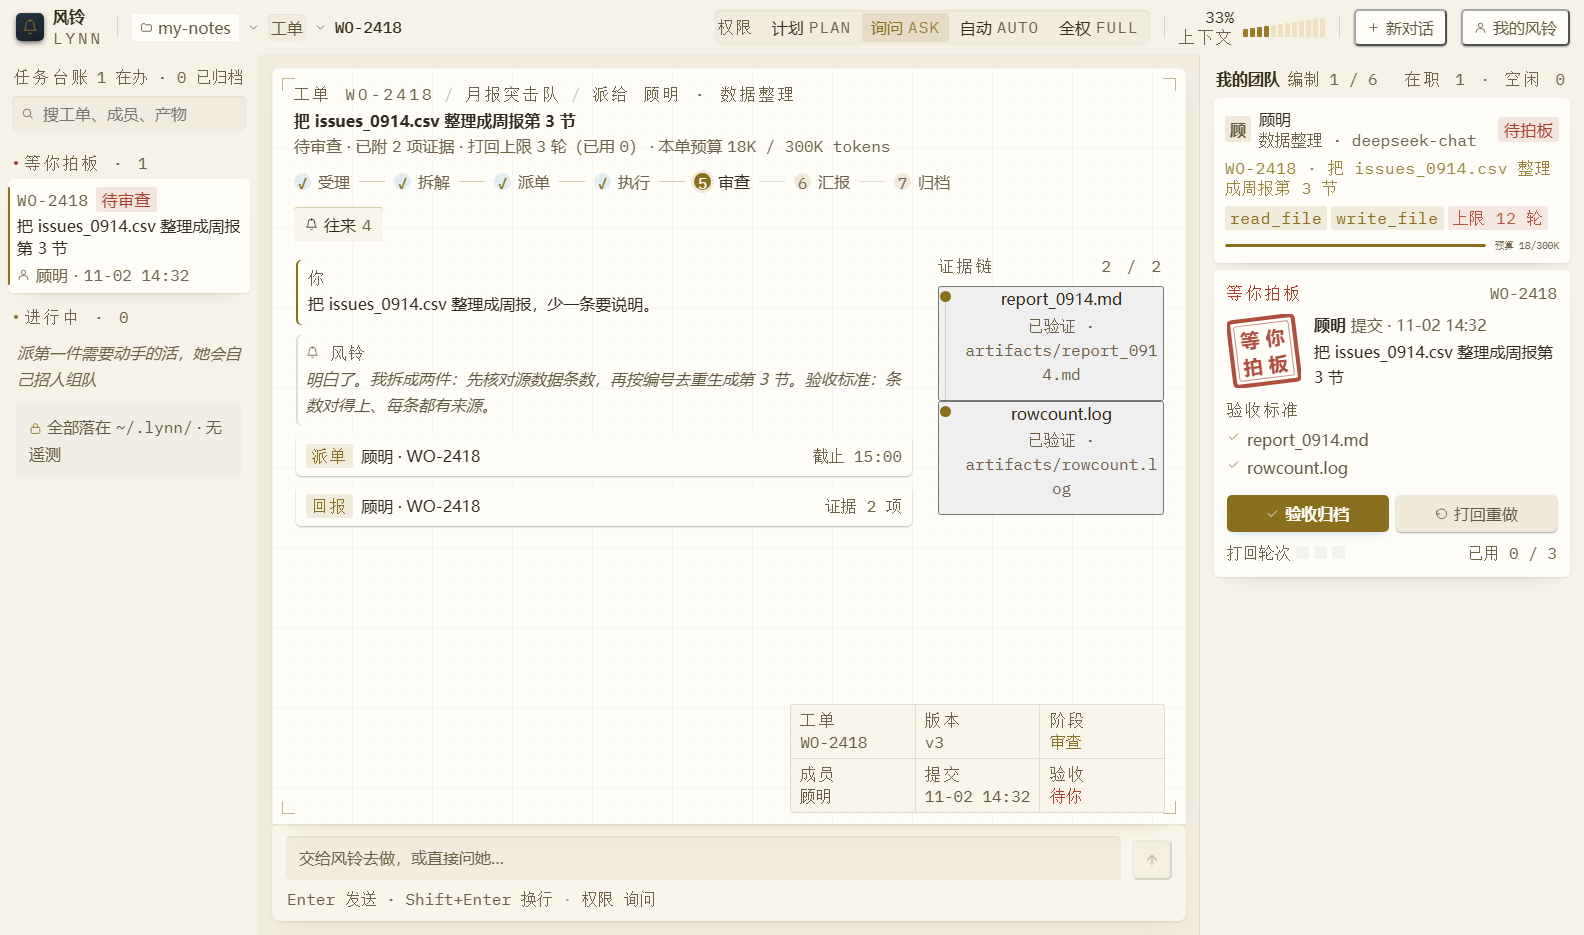
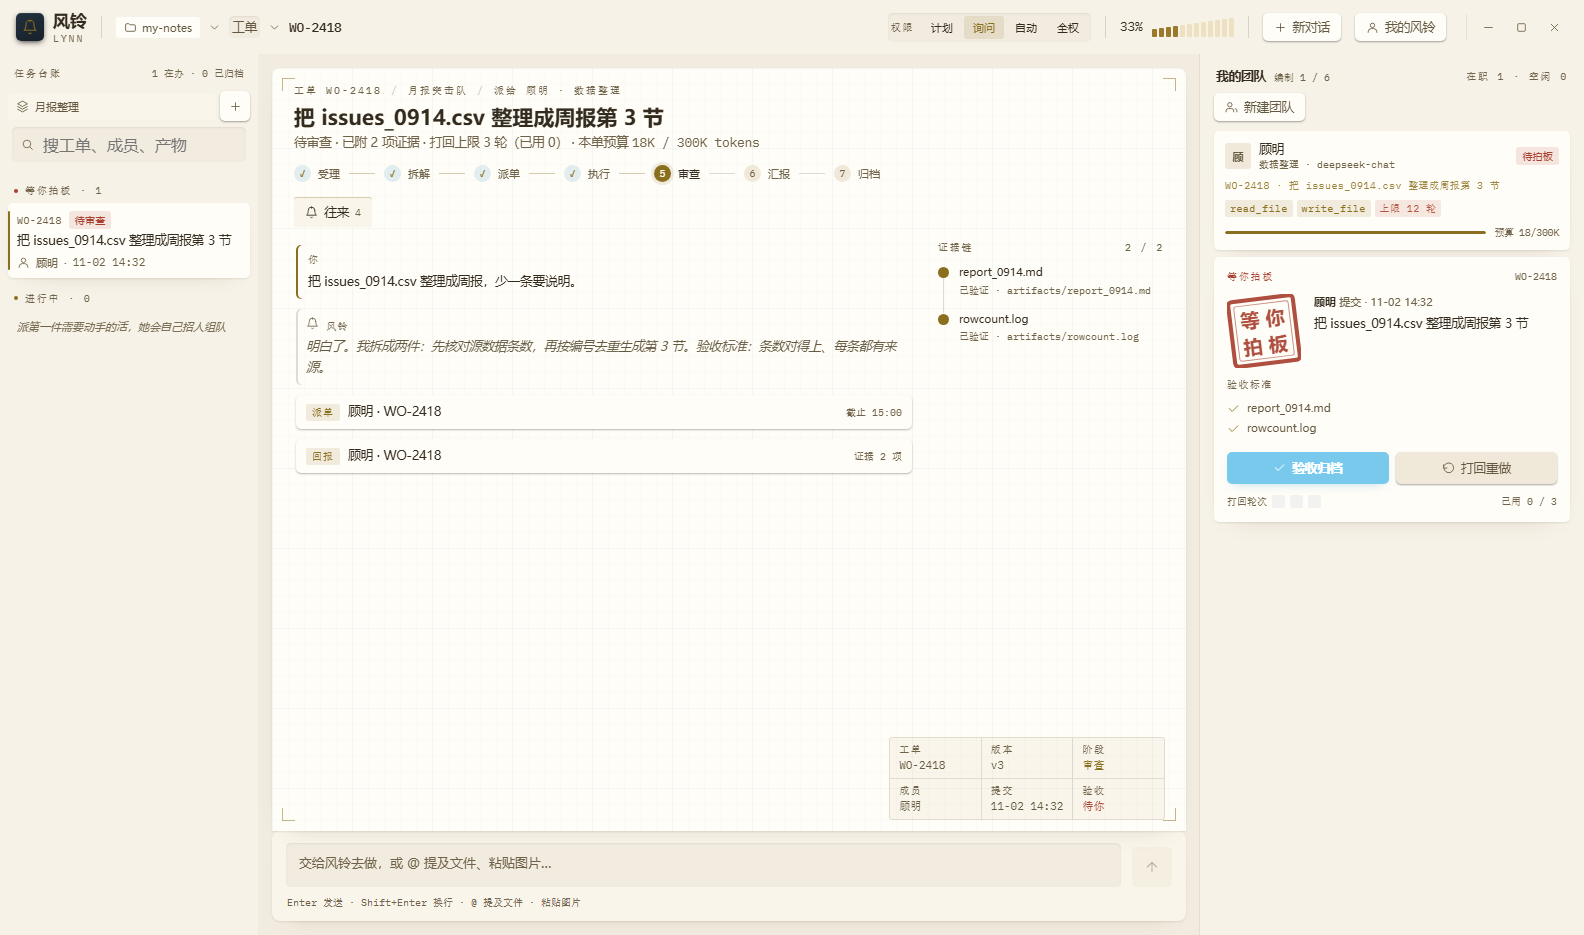
fix(design): define font/motion tokens + kill UA button borders and dead cursors
- --fs-* / --dur* / --ease-out / --fs-clock / --surface-* were referenced but never
  declared: every font-size collapsed to 16px and transitions were dropped. Declare
  them in :root; --surface-1/2 now follow --sheet-2/3 per theme.
- button.seg-item/.tab/.job/.theme/.av-* used 'font: inherit', which reset their own
  font-size back to 16px even after tokens existed -> font-family only.
- .ghost-btn/.icon-btn/.btn/.send kept the UA 2px outset border (icon-btn was pure
  black): reset border on all buttons + explicit zeros on the four classes.
- drop 6 cursor:default overrides; .job[role=button] keeps pointer for real rows only.
- check-design.mjs: new rule 8 - every var(--x) must be declared (comment-aware).
- preview-shot: LYNN_PREVIEW_WIZARD=1 to reach the first-run wizard.
- shots regenerated with the restored type scale.

diff --git a/src/renderer/styles/dispatch.css b/src/renderer/styles/dispatch.css
@@ -49,6 +49,28 @@
   --r-s: 3px;
   --r-m: 5px;
   --r-l: 8px;
+
+  /* --- 字号阶梯（规范 §3.3）：六档，最小 10px。
+         这里必须真的定义——此前只有引用没有声明，
+         所有 font-size: var(--fs-*) 在计算值阶段整条失效、全站塌成 16px。 --- */
+  --fs-label: 10px;    /* 等宽标签 / 计数 / 芯片 */
+  --fs-meta: 11px;     /* 时间 / 来源 / 提示行 */
+  --fs-body: 12.5px;   /* 正文主力 */
+  --fs-body-lg: 13px;  /* 指令台输入 / 小节标题 */
+  --fs-brand: 17px;    /* 品牌名 */
+  --fs-title: 21px;    /* 页面标题 */
+  --fs-head: 21px;     /* 图纸主标题 */
+  --fs-display: 26px;  /* 造铃大标题 */
+  --fs-clock: 56px;    /* 待机页时钟（唯一的超大字号） */
+
+  /* --- 交互时长与缓动：只表达状态，不循环 --- */
+  --dur-fast: 120ms;
+  --dur: 180ms;
+  --ease-out: cubic-bezier(.16, 1, .3, 1);
+
+  /* --- 弹层/芯片表面：跟随主题的 sheet 层，禁止再写死深色回退 --- */
+  --surface-1: var(--sheet-2);
+  --surface-2: var(--sheet-3);
 }
 
 * { box-sizing: border-box; }
@@ -147,7 +169,7 @@ svg.ic.lg { width: 20px; height: 20px; }
 .win-btn {
   width: 32px; height: 26px; display: grid; place-items: center;
   border: 0; background: none; border-radius: var(--r-s);
-  color: var(--ink-3); cursor: default;
+  color: var(--ink-3);
 }
 .win-btn:hover { background: var(--hover-bg); color: var(--ink); }
 .win-btn.close:hover { background: var(--red-wash); color: var(--red); }
@@ -183,7 +205,7 @@ svg.ic.lg { width: 20px; height: 20px; }
   display: flex; align-items: center; gap: 5px;
   padding: 4px 9px; border-radius: var(--r-s);
   font-size: var(--fs-meta); color: var(--ink-3);
-  cursor: default;
+  cursor: pointer;
 }
 .seg-item .en { font-family: var(--f-mono); font-size: var(--fs-label); color: var(--ink-4); letter-spacing: .06em; }
 .seg-item.on { background: var(--blue-wash); color: var(--blue); }
@@ -206,7 +228,7 @@ svg.ic.lg { width: 20px; height: 20px; }
 .icon-btn {
   width: 30px; height: 30px; border-radius: var(--r-m);
   display: grid; place-items: center; color: var(--ink-3);
-  background: var(--desk-3); cursor: default;
+  background: var(--desk-3); cursor: pointer;
   box-shadow: 0 1px 2px rgba(0,0,0,.35);
 }
 .icon-btn:hover { background: #202b37; color: var(--ink-2); }
@@ -215,7 +237,7 @@ svg.ic.lg { width: 20px; height: 20px; }
   display: inline-flex; align-items: center; gap: 6px;
   padding: 6px 11px; border-radius: var(--r-m);
   background: var(--desk-3); color: var(--ink-2);
-  font-size: var(--fs-body); cursor: default;
+  font-size: var(--fs-body); cursor: pointer;
   font-family: var(--f-cjk);
   box-shadow: 0 1px 2px rgba(0,0,0,.35);
 }
@@ -263,9 +285,11 @@ svg.ic.lg { width: 20px; height: 20px; }
 
 .job {
   display: block; padding: 8px 9px; border-radius: var(--r-m);
-  margin-bottom: 2px; cursor: default; position: relative;
+  margin-bottom: 2px; position: relative;
   background: transparent;
 }
+/* 只有真能点的工单行给手型：审查台左栏有同名的静态 .job（无 role），不能误给 */
+.job[role="button"] { cursor: pointer; }
 .job:hover { background: #18212c; }
 .job.on { background: var(--sheet); box-shadow: 0 1px 3px rgba(0,0,0,.45); }
 .job.on::before {
@@ -576,7 +600,7 @@ svg.ic.lg { width: 20px; height: 20px; }
 .btn {
   flex: 1; display: inline-flex; align-items: center; justify-content: center; gap: 6px;
   padding: 8px 10px; border-radius: var(--r-m); font-size: var(--fs-body);
-  cursor: default; font-family: var(--f-cjk);
+  cursor: pointer; font-family: var(--f-cjk);
 }
 .btn-accept { background: var(--blue); color: var(--on-accent); font-weight: 600; box-shadow: 0 4px 12px -6px rgba(94,169,201,.6); }
 .btn-accept:hover { background: #6fbada; }
@@ -811,7 +835,9 @@ textarea.composer-in::placeholder { color: var(--ink-4); }
 /* 运行态基础（原聊天壳已移除，这里的重置只服务值台） */
 html, body { height: 100%; overflow: hidden; background: var(--desk); }
 #root { height: 100vh; }
-button { font: inherit; cursor: pointer; }
+/* 所有按钮先归零 UA 边框：零描边规则是从这里兜底的，
+   不是逐个类名补（.ghost-btn / .icon-btn / .btn / .send 曾漏掉，实测 2px outset 黑框） */
+button { font: inherit; cursor: pointer; border: 0; background: none; }
 input, textarea { font: inherit; }
 
 /* 指令台：窄窗口下允许换行，别把提示挤成竖排 */
@@ -1371,7 +1397,8 @@ button.seg-item,
 button.av-vbtn,
 button.av-sbtn {
   border: 0;
-  font: inherit;
+  /* 只继承字族：写 font: inherit 会把上面各类自己的 font-size 一起打回 16px */
+  font-family: var(--f-cjk);
   text-align: left;
   color: inherit;
   background: none;
